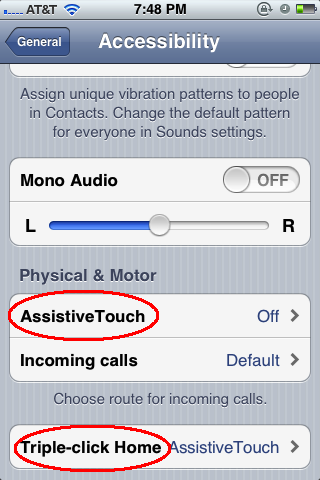
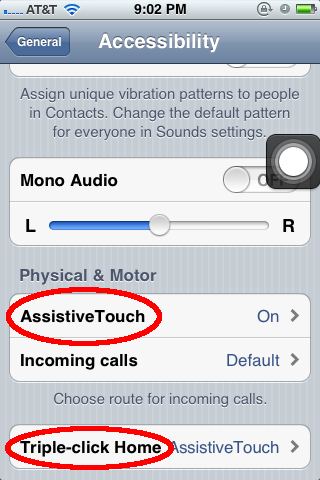
Finish twitchtv iPhone app post

diff --git a/blog/posts/twitchtv-landscape-lock/body.html b/blog/posts/twitchtv-landscape-lock/body.html
@@ -16,7 +16,59 @@ constantly switching orientations.
 **However**, landscape lock does exist, it just takes a bit of work to
 activate!
 
+Step by Step Guide
+------------------
+
+Open the Settings application. Scroll down and Press `General`. Next, scroll
+down and press `Accessibility`. 
+
 {{ blog_img(g, "twitchtv-landscape-lock/image1.png")|safe }}
+
+Scroll down again until you see the `AssitiveTouch` and `Triple-click Home`
+options. Set `AssitiveTouch` to **ON**  and `Triple-click Home` to
+**AssitiveTouch**.
+
+{{ blog_img(g, "twitchtv-landscape-lock/image2.png")|safe }}
+
+The AssitiveTouch icon should pop up on your screen. If you don't see it,
+press the Home button on the bottom of your iPhone three times in quick
+succession.  After about five seconds, the icon should appear. Pressing the
+Home button three times like this toggles the AssitiveTouch icon.
+
+{{ blog_img(g, "twitchtv-landscape-lock/image3.png")|safe }}
+
+Next, [lock your iPhone orientation][0] in Portrait mode.
+[0]: http://timeread.hubpages.com/hub/How-to-lock-the-iPod-touch-or-iPhone-screen-in-portrait-orientation
+
+Now open up the TwitchTV app, and pull up your favorite stream. Press the
+AssitiveTouch icon. A menu will pop up with the labels "Gestures", "Favorites",
+"Device", and "Home". **Press Device**.
+
+{{ blog_img(g, "twitchtv-landscape-lock/image4.png")|safe }}
+
+Another menu will come up. Choose **Rotate Screen**.
+
+{{ blog_img(g, "twitchtv-landscape-lock/image5.png")|safe }}
+
+Finally, choose either **Right** or **Left** (Left to have the iPhone volume
+buttons on top).
+
+{{ blog_img(g, "twitchtv-landscape-lock/image6.png")|safe }}
+
+Now TwitchTV is locked in Landscape mode! Press anywhere outside of the
+AssitiveTouch menu to minimize it, and feel free to toggle AssitiveTouch off
+until you need it again.
+
+A few things to remember
+------------------------
+
+* You will need to repeat this procedure any time you leave the TwitchTV App.
+
+* You are able to drag the AssitiveTouch icon around on the screen. 
+
+* For whatever reason, toggling AssitiveTouch can take a really long time. If
+AssitiveTouch fails to show up after triple-pressing the Home key, wait 10
+seconds before trying again.
 
 {% endfilter %}
 {% endblock post %}

diff --git a/blog/posts/how-to-read-programming-tutorial/meta.py b/blog/posts/how-to-read-programming-tutorial/meta.py
@@ -2,10 +2,4 @@
 title="How to Read a Programming Tutorial"
 description="""Recommended steps to get the most out of a programming tutorial."""
 time="2012-07-13 Fri 01:16 AM"
-excerpt="""Many of us seek to improve ourselves beyond what's required. Many 
-CS students are not content to just make good grades in class; they want to 
-get their hands dirty with real-world projects. Many employees read up on the 
-latest languages and frameworks well beyond office hours, simply because they 
-want to play with technology while learning to build a better product. It's 
-important, however, to ensure our time spent studying new programming 
-techniques does not go to waste."""
+excerpt="""Recommended steps to get the most out of a programming tutorial."""

diff --git a/blog/posts/twitchtv-landscape-lock/meta.py b/blog/posts/twitchtv-landscape-lock/meta.py
@@ -1,8 +1,7 @@
 
 title="Lock TwitchTV in Landscape Mode on your iPhone"
 description="""Step by step guide on how to lock your iPhone in Landscope mode
-when watching TwitchTV"""
-time="2012-07-05 Thu 02:53 PM"
-excerpt="""Post excerpt goes here. You can make it as long as
-you want. Make sure to use triple string!"""
-
+when watching TwitchTV."""
+time="2012-07-15 Sun 03:27 PM"
+excerpt = """Step by step guide on how to lock your iPhone in Landscope mode
+when watching TwitchTV."""
